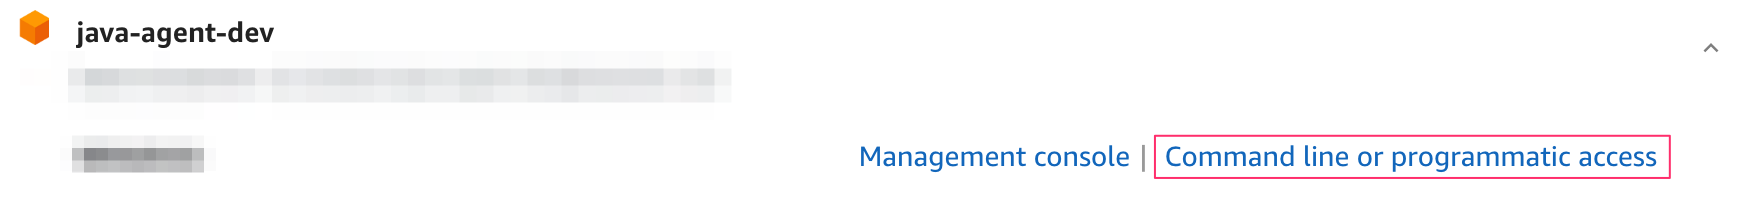
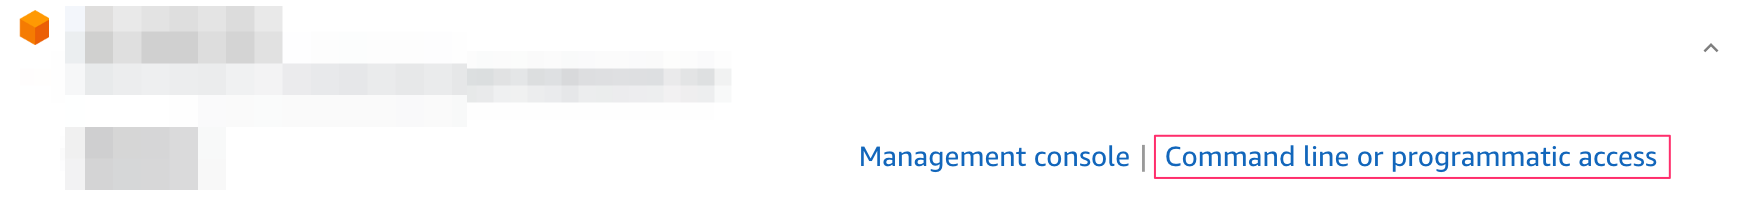
Update readme

Changed region(s): [[0.0308, 0.027, 0.1849, 0.2973], [0.0308, 0.5676, 0.1233, 0.8649]]

diff --git a/README.md b/README.md
@@ -12,7 +12,7 @@ Simple Spring service with an endpoint for submitting prompts to an LLM via the 
     aws_secret_access_key=...
     aws_session_token=...
     ```
-  You can obtain the required credentials numerous ways but a quick and easy method is to select the "Command line or programmatic access" option when signing in to the `java-agent-dev` account, which will display the credentials.
+  You can obtain the required credentials numerous ways but a quick and easy method is to select the "Command line or programmatic access" option when signing in to the AWS account, which will display the credentials.
   ![aws-creds.png](src%2Fmain%2Fresources%2Fstatic%2Faws-creds.png)
 
 ## Usage
